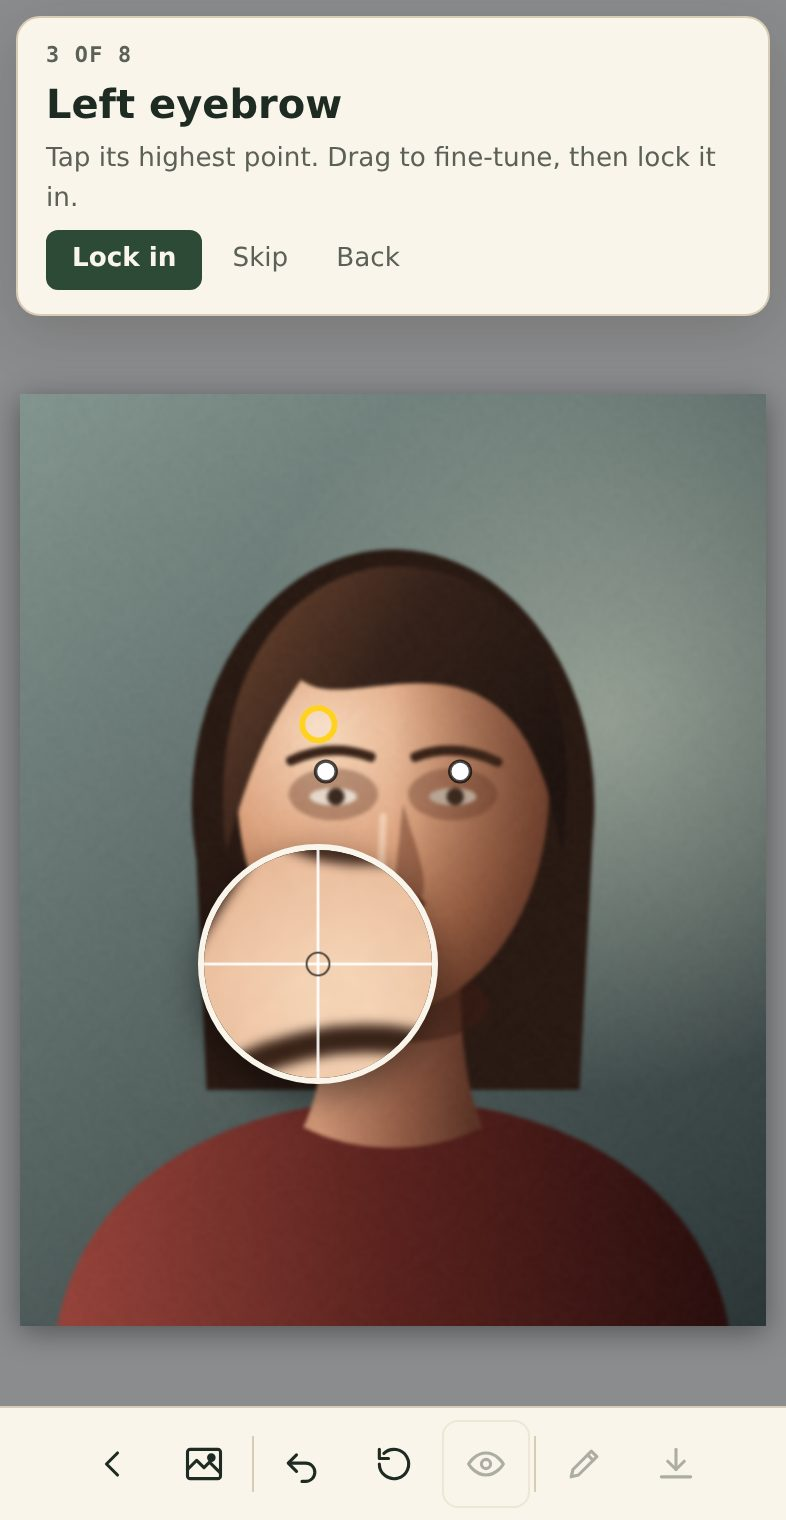
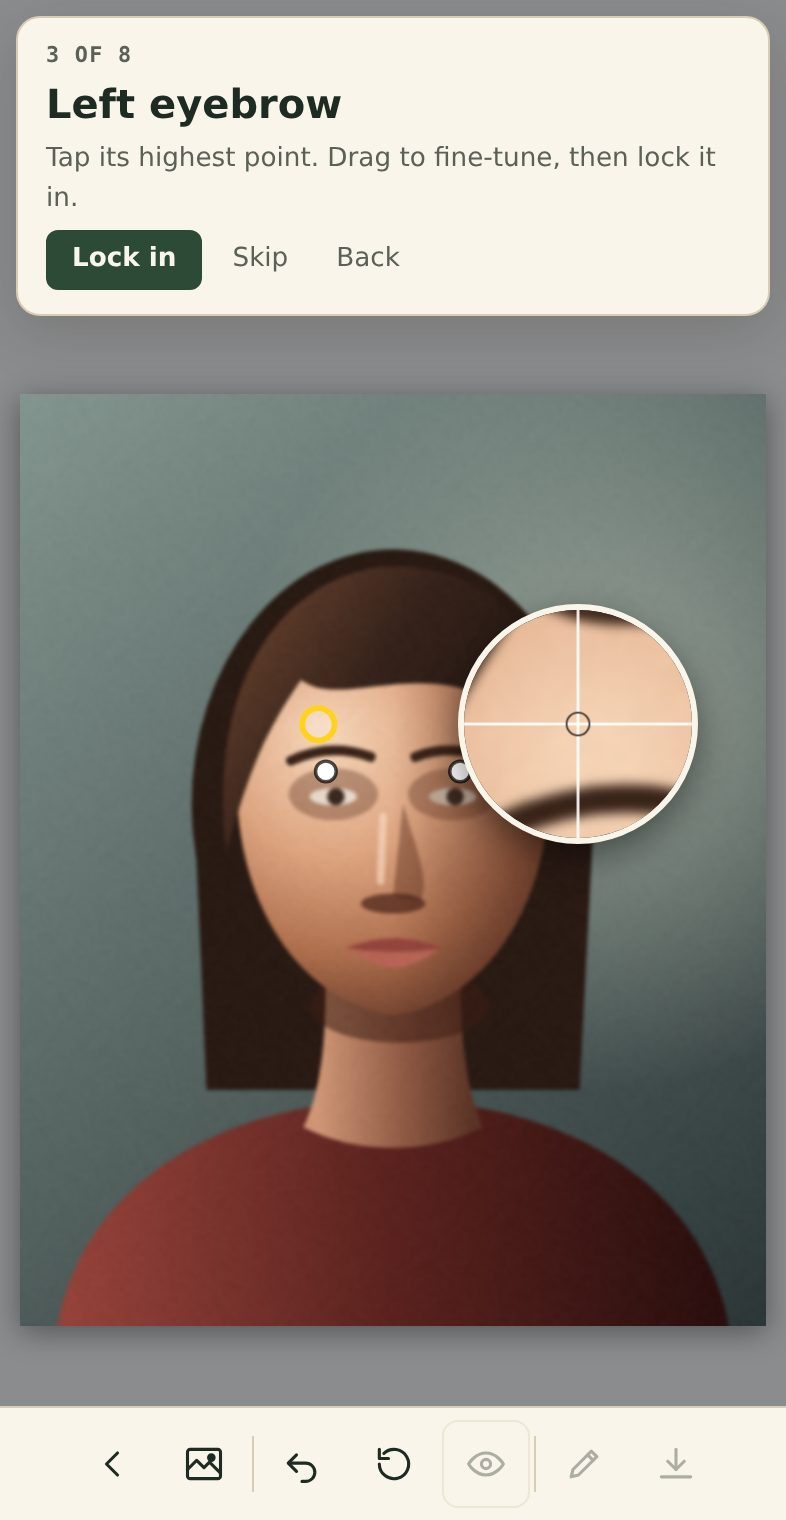
Loomis head: keep the loupe out from under the hand
Claude-Session: https://claude.ai/code/session_01XVREo3r8Hxw4H8arPAzQN1

Changed region(s): [[0.5496, 0.3711, 0.916, 0.5875], [0.2443, 0.5566, 0.5802, 0.7421]]

diff --git a/js/loomis.js b/js/loomis.js
@@ -331,12 +331,18 @@
     g.strokeStyle = 'rgba(255,255,255,0.9)'; g.lineWidth = 1.5 * dpr;
     g.beginPath(); g.moveTo(size * dpr / 2, 0); g.lineTo(size * dpr / 2, size * dpr); g.moveTo(0, size * dpr / 2); g.lineTo(size * dpr, size * dpr / 2); g.stroke();
     g.strokeStyle = 'rgba(0,0,0,0.7)'; g.lineWidth = 1 * dpr; g.beginPath(); g.arc(size * dpr / 2, size * dpr / 2, 6 * dpr, 0, Math.PI * 2); g.stroke();
-    // above the finger, or below it near the top of the stage
+    // above the finger when there is room, else beside it, else below: never under the hand
     const st = $('stage').getBoundingClientRect(), r = overlay.getBoundingClientRect();
     const fx = r.left + x * r.width - st.left, fy = r.top + y * r.height - st.top;
-    const above = fy - 90 - size > 8;
-    loupe.style.left = `${Math.max(8, Math.min(st.width - size - 8, fx - size / 2))}px`;
-    loupe.style.top = `${above ? fy - 90 - size : fy + 60}px`;
+    let lx = fx - size / 2, ly = fy - 80 - size;
+    if (ly < 8) {
+      ly = Math.max(8, Math.min(st.height - size - 8, fy - size / 2));
+      if (fx + 70 + size < st.width - 8) lx = fx + 70;
+      else if (fx - 70 - size > 8) lx = fx - 70 - size;
+      else { lx = fx - size / 2; ly = fy + 60; }
+    }
+    loupe.style.left = `${Math.max(8, Math.min(st.width - size - 8, lx))}px`;
+    loupe.style.top = `${Math.max(8, Math.min(st.height - size - 8, ly))}px`;
     loupe.hidden = false;
   }
   function hideLoupe() { loupe.hidden = true; }
